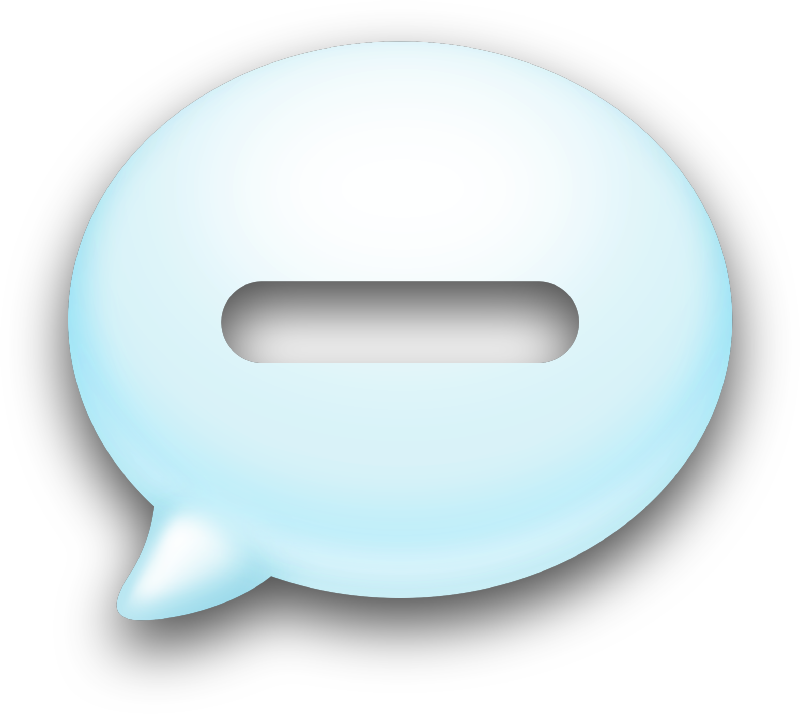
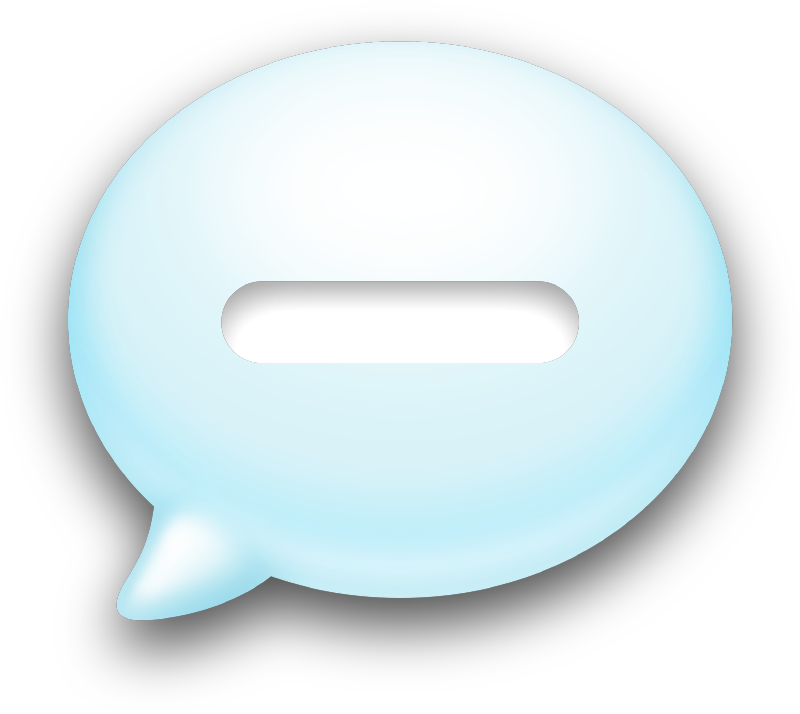
egg

Changed region(s): [[0.25, 0.3697, 0.75, 0.5238]]

diff --git a/options/scripts/options-page.js b/options/scripts/options-page.js
@@ -20,6 +20,14 @@ class OptionsPage {
     this.stylesheet.onUpdate = this.updatePage.bind(this)
 
     this.updatePage()
+
+    this.eggListener = this.easterEgg.bind(this)
+    this.eggCounter = 0
+    this.eggText = document.createElement('div')
+    this.eggText.classList.add('egg')
+    $('figure').insertBefore(this.eggText, $('img'))
+    $('img').addEventListener('mouseenter', this.eggListener, false)
+    this.easterEgg()
   }
 
   async updatePage () {
@@ -56,6 +64,9 @@ class OptionsPage {
 
   updateContextMenuOption (event) {
     this.options.update({contextMenu: event.target.checked})
+
+    console.log('sending message')
+    chrome.runtime.sendMessage({type: (event.target.checked ? 'add' : 'remove') + 'ContextMenu'})
   }
 
   openShortcutPane (event) {
@@ -133,6 +144,43 @@ class OptionsPage {
   setCSSCopyrightStr (el) {
     el.innerHTML = chrome.i18n.getMessage('copyright_steven')
     el.dataset.i18nLocked = '\ud83d\udd12'
+  }
+
+  easterEgg () {
+    let messages = [
+      'FIRST!!',
+      'F\u2013 First?',
+      'first :(',
+      'first',
+      ''
+    ]
+
+    this.eggText.classList.add('bye')
+    this.eggText.classList.remove('hi')
+
+    $('img').addEventListener('mouseleave', () => {
+      this.eggText.classList.add('hi')
+      this.eggText.classList.remove('bye')
+    }, {once: true})
+
+    this.eggCounter++
+
+    window.setTimeout(() => {
+      this.eggText.classList.remove(`step-${this.eggCounter - 1}`)
+      this.eggText.innerText = messages[this.eggCounter - 1]
+      this.eggText.classList.add(`step-${this.eggCounter}`)
+    }, 400)
+
+    if (this.eggCounter >= messages.length) {
+      $('img').removeEventListener('mouseenter', this.eggListener, false)
+    } else {
+      if (this.eggCounter === 1) {
+        window.setTimeout(() => {
+          this.eggText.classList.add('hi')
+          this.eggText.classList.remove('bye')
+        }, 2000)
+      }
+    }
   }
 }
 

diff --git a/scripts/private/init.js b/scripts/private/init.js
@@ -1,22 +1,15 @@
-chrome.runtime.onInstalled.addListener(() => {
-  // Disable action on all tabs... at first.
-  chrome.browserAction.disable()
-
-  // Init context menus
-  chrome.contextMenus.create({
-    id: 'toggle-comments-ctx',
-    title: chrome.i18n.getMessage('toggle_comments_menu'),
-    contexts: ['page']
-  })
-
-  chrome.contextMenus.onClicked.addListener((info, tab) => {
-    bridge.uiBridge.toggleInjectedState(tab)
-  })
-})
-
 /* eslint-disable no-unused-vars */
 window.stylesheet = new Stylesheet()
 window.whitelist = new Whitelist()
 window.options = new Options()
 window.bridge = new PrivateEventBridge()
 /* eslint-enable no-unused-vars */
+
+chrome.runtime.onInstalled.addListener(() => {
+  // Disable action on all tabs... at first.
+  chrome.browserAction.disable()
+
+  // Init context menus
+  // FIXME: IF the settings call for it
+  bridge.uiBridge.addContextMenu()
+})

diff --git a/options/styles/options.css b/options/styles/options.css
@@ -176,3 +176,35 @@ form > div aside.note {
 form > div.bottom-gap {
   margin-bottom: 3.0rem;
 }
+
+/* px used deliberately here, since icon size doesn't change */
+.egg {
+  font-family: "Comic Sans MS", cursive;
+  font-size: 14px;
+  font-weight: bold;
+  text-align: center;
+
+  position: absolute;
+  left: 0;
+  right: 0;
+  top: 47%;
+
+  transform: translate(0px, 50px);
+  opacity: 0.7;
+}
+
+.egg.bye {
+  transition: transform 0.2s ease-in;
+}
+
+.egg.hi {
+  transition: transform 4s ease-out;
+  transform: translate(0px, 0px);
+}
+
+.egg.step-4 {
+  font-size: 10px;
+  padding-top: 2px;
+  color: var(--c-text-secondary);
+  opacity: 1.0;
+}

diff --git a/scripts/private/ui-bridge.js b/scripts/private/ui-bridge.js
@@ -49,4 +49,22 @@ class UIBridge { // eslint-disable-line no-unused-vars
       chrome.browserAction[enable ? 'enable' : 'disable'](id)
     })
   }
+
+  removeContextMenu () {
+    chrome.contextMenus.remove('toggle-comments-ctx')
+  }
+
+  async addContextMenu () {
+    if (await options.contextMenu()) {
+      chrome.contextMenus.create({
+        id: 'toggle-comments-ctx',
+        title: chrome.i18n.getMessage('toggle_comments_menu'),
+        contexts: ['page']
+      })
+
+      chrome.contextMenus.onClicked.addListener((info, tab) => {
+        bridge.uiBridge.toggleInjectedState(tab)
+      })
+    }
+  }
 }

diff --git a/scripts/private/private-event-bridge.js b/scripts/private/private-event-bridge.js
@@ -81,4 +81,12 @@ class PrivateEventBridge extends EventBridge { // eslint-disable-line no-unused-
       payload: contents
     })
   }
+
+  removeContextMenuResponder (message, sender) {
+    this.uiBridge.removeContextMenu()
+  }
+
+  addContextMenuResponder (message, sender) {
+    this.uiBridge.addContextMenu()
+  }
 }
